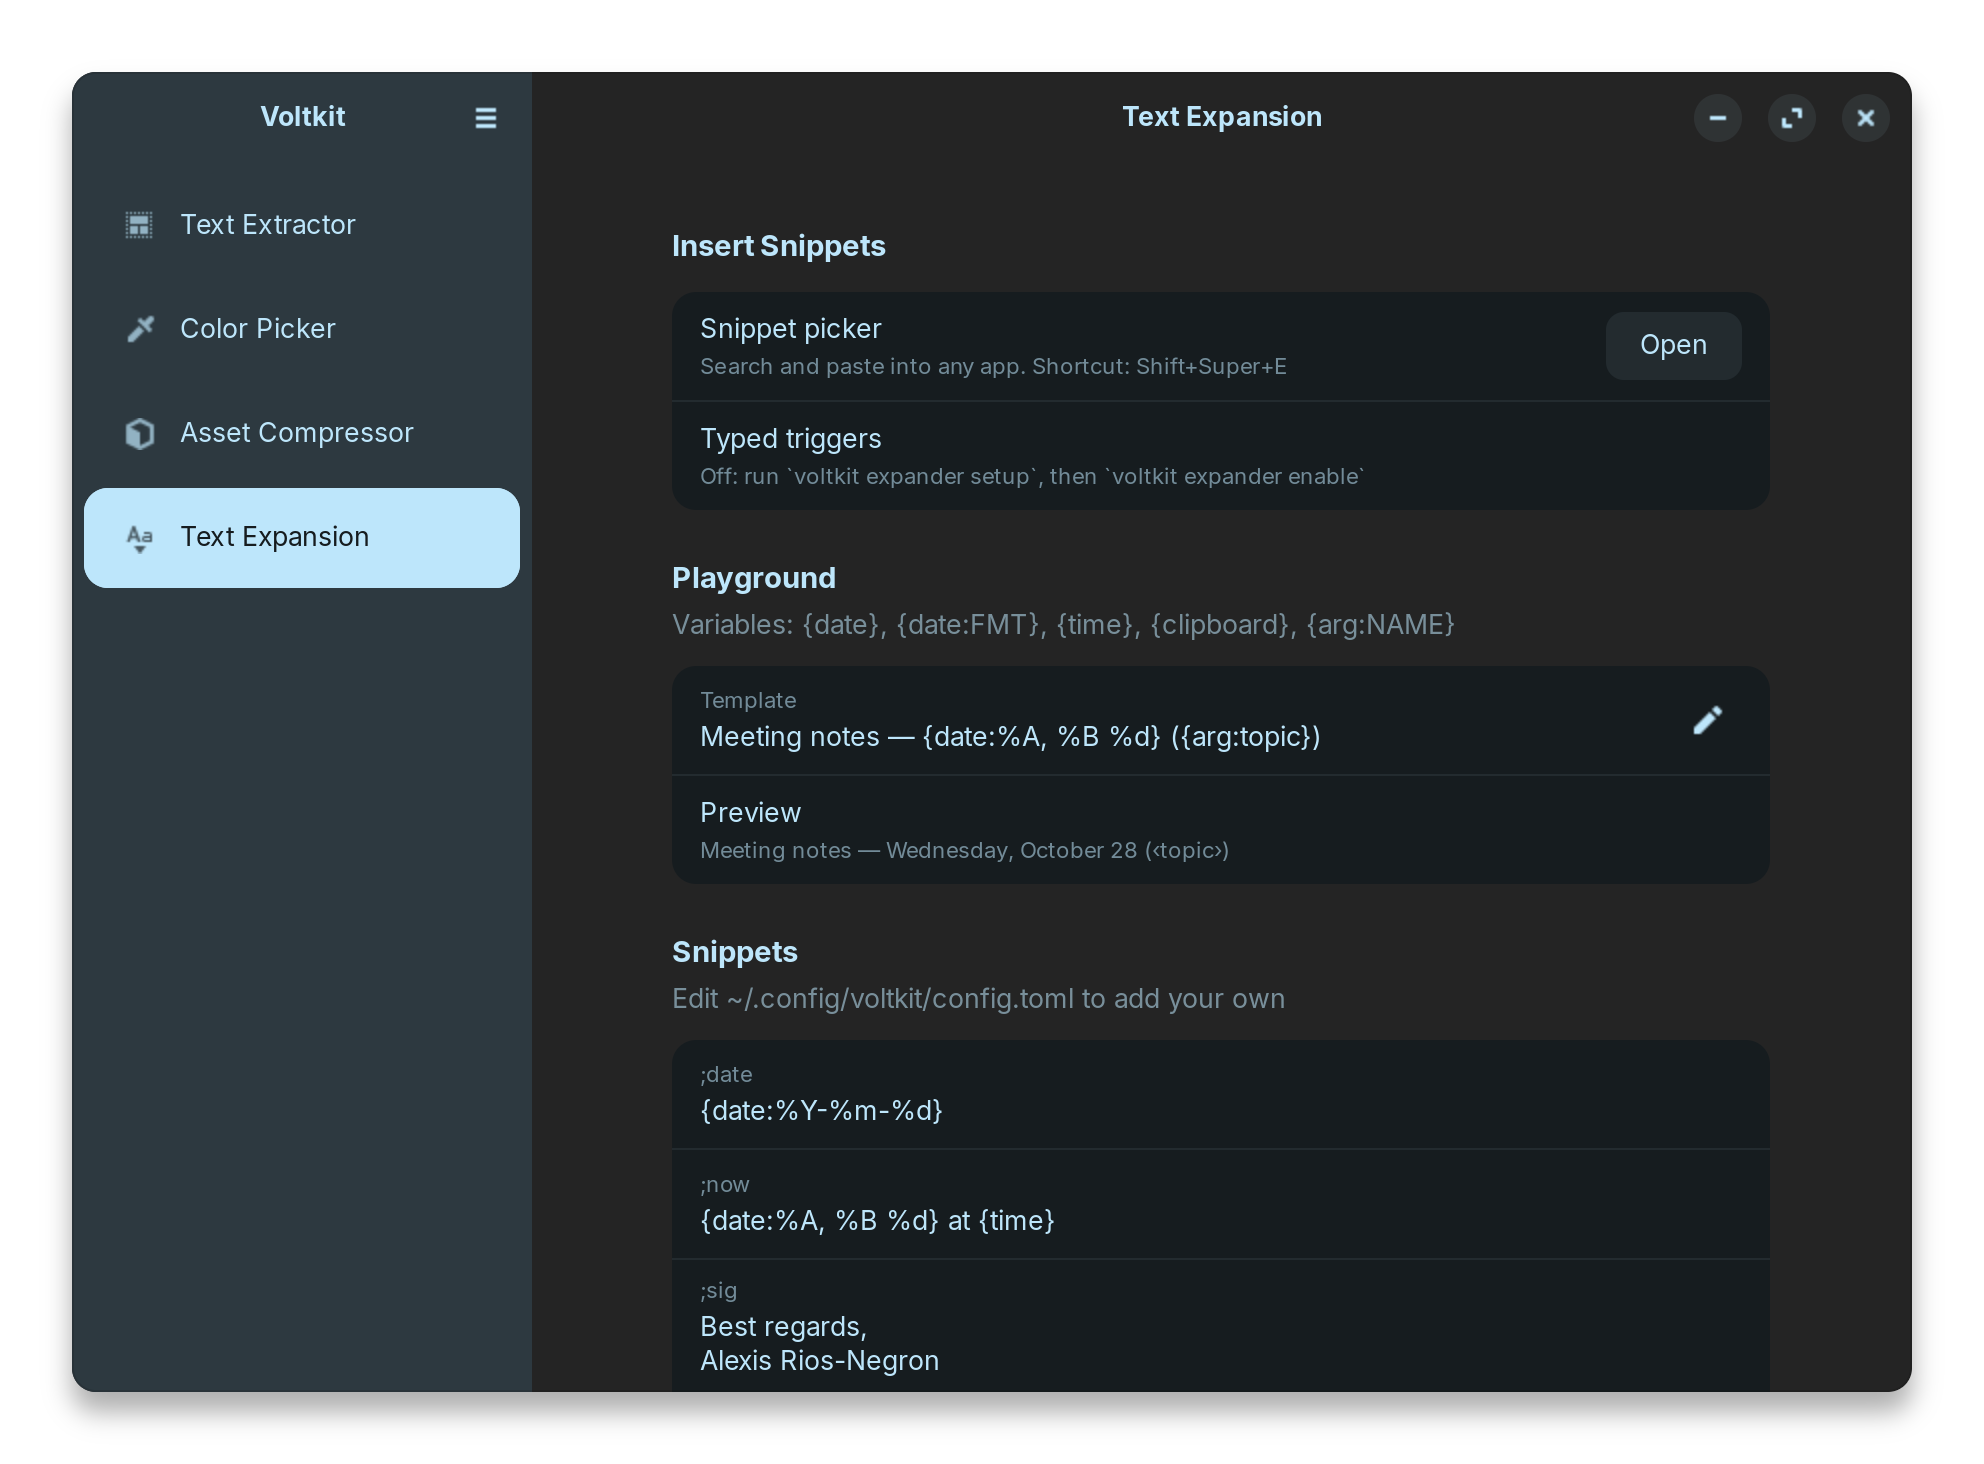
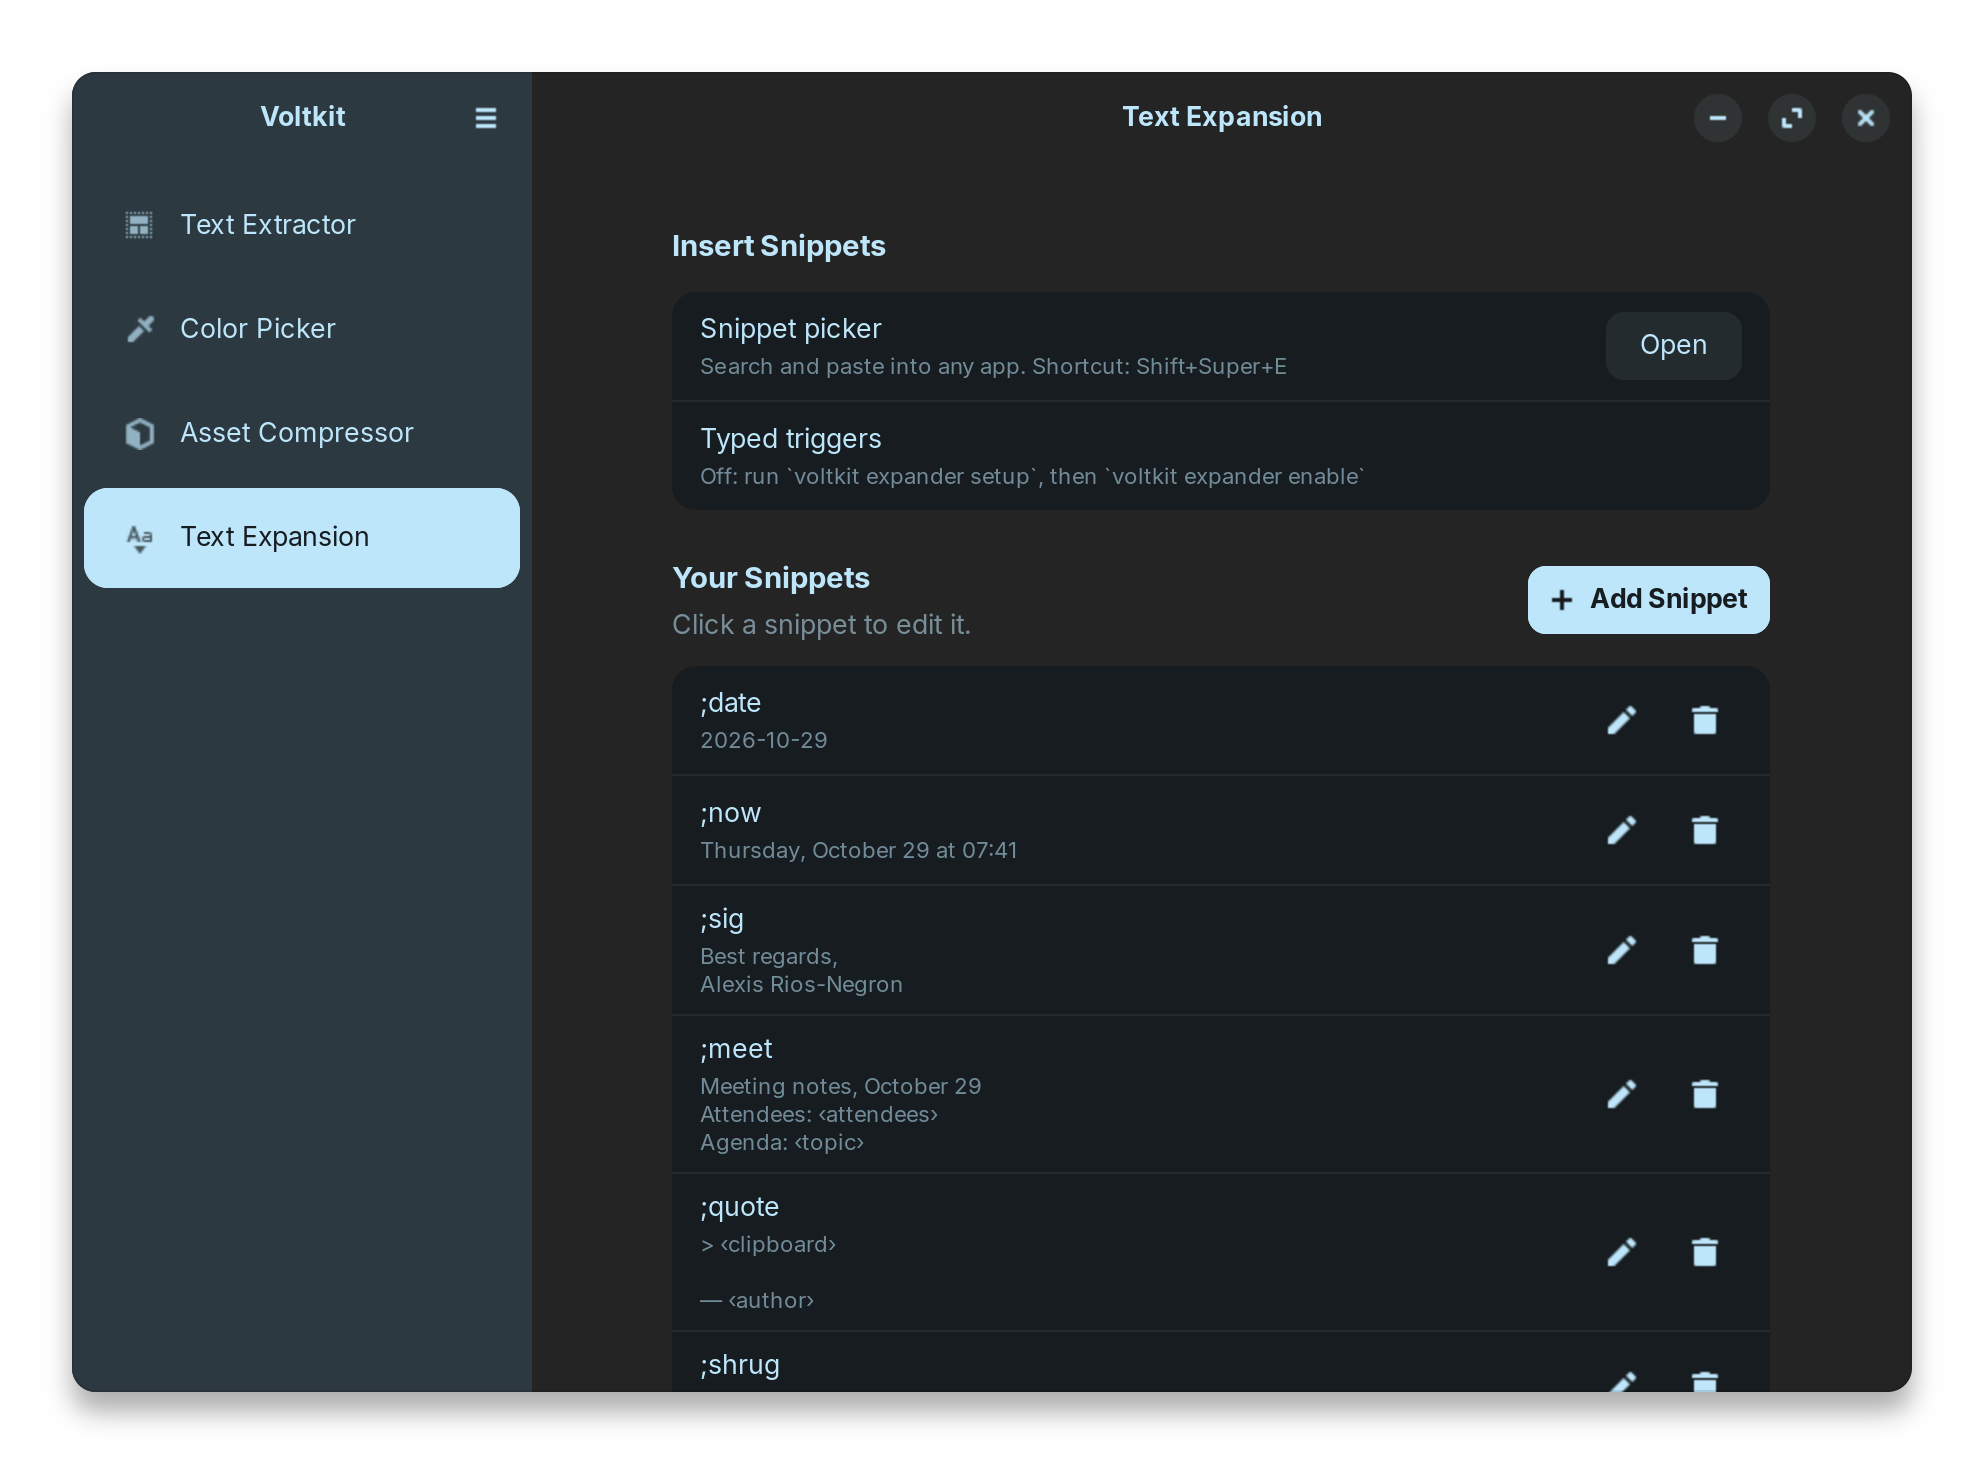
Release 0.1.3
- Text Expansion: add, edit and delete snippets in the app (with Undo)
  instead of editing config.toml.
- A snippet editor with Insert buttons for the date, time, clipboard and
  fill-in fields, and a live preview, replaces the Playground.
- Typed triggers pick up snippet edits immediately; `voltkit daemon
  reload` does the same after editing the file by hand.

README screenshots refreshed, now including the snippet editor.

diff --git a/README.md b/README.md
@@ -77,8 +77,8 @@ fill-in field, and a live preview shows exactly what will be pasted.
 </picture>
 
 <picture>
-  <source media="(prefers-color-scheme: dark)" srcset="docs/screenshots/snippets-dark.png">
-  <img src="docs/screenshots/snippets-light.png" alt="Text Expansion page with the template playground and configured snippets">
+  <source media="(prefers-color-scheme: dark)" srcset="docs/screenshots/snippet-editor-dark.png">
+  <img src="docs/screenshots/snippet-editor-light.png" alt="Snippet editor with a trigger, text with Insert buttons for date, time, clipboard and fill-in fields, and a live preview">
 </picture>
 
 ## Why Voltkit
